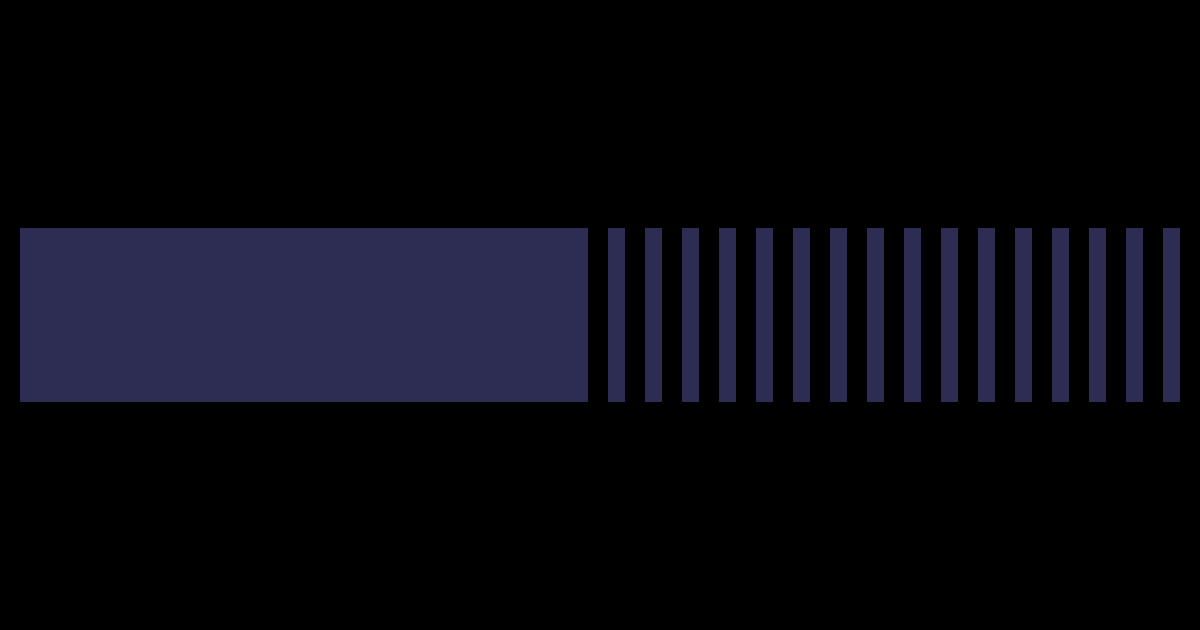
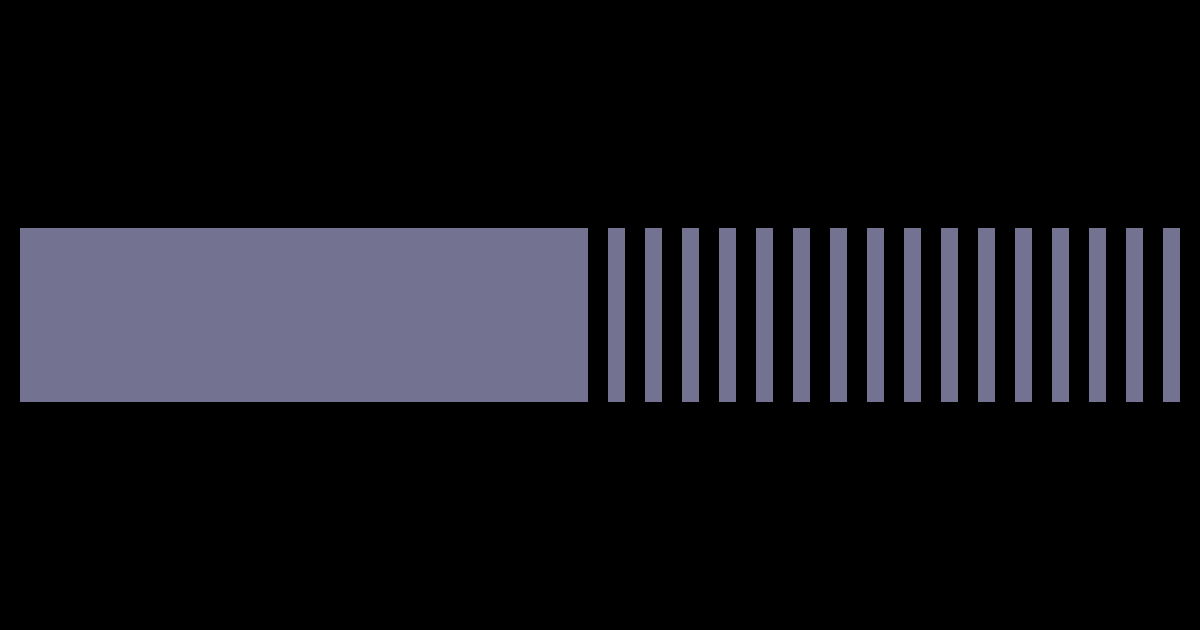
Update site content and images

Changed region(s): [[0.0, 0.3619, 0.9867, 0.6635]]

diff --git a/md/static/terminal.css b/md/static/terminal.css
@@ -1,7 +1,7 @@
 :root {
   --background: #000000;
   --foreground: #ffffff;
-  --accent: #2d2d53;
+  --accent: #737391;
   --radius: 4;
   --font-size: 1rem;
   --line-height: 1.54em;

diff --git a/md/terminal.css b/md/terminal.css
@@ -1,7 +1,7 @@
 :root {
   --background: #000000;
   --foreground: #ffffff;
-  --accent: #2d2d53;
+  --accent: #737391;
   --radius: 4;
   --font-size: 1rem;
   --line-height: 1.54em;
